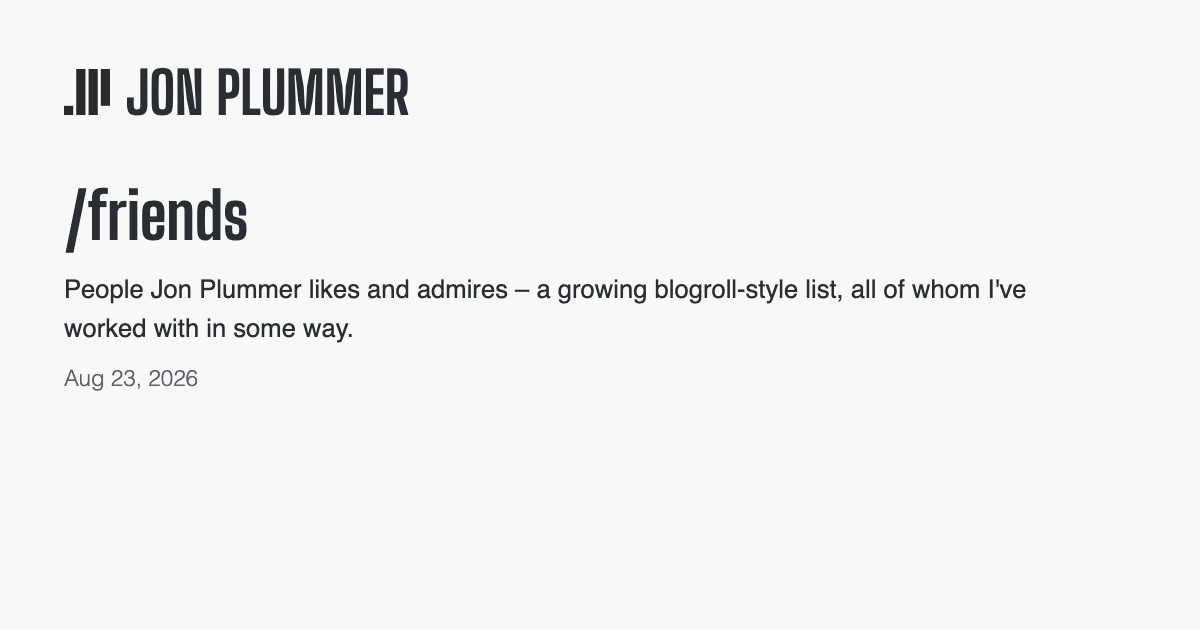
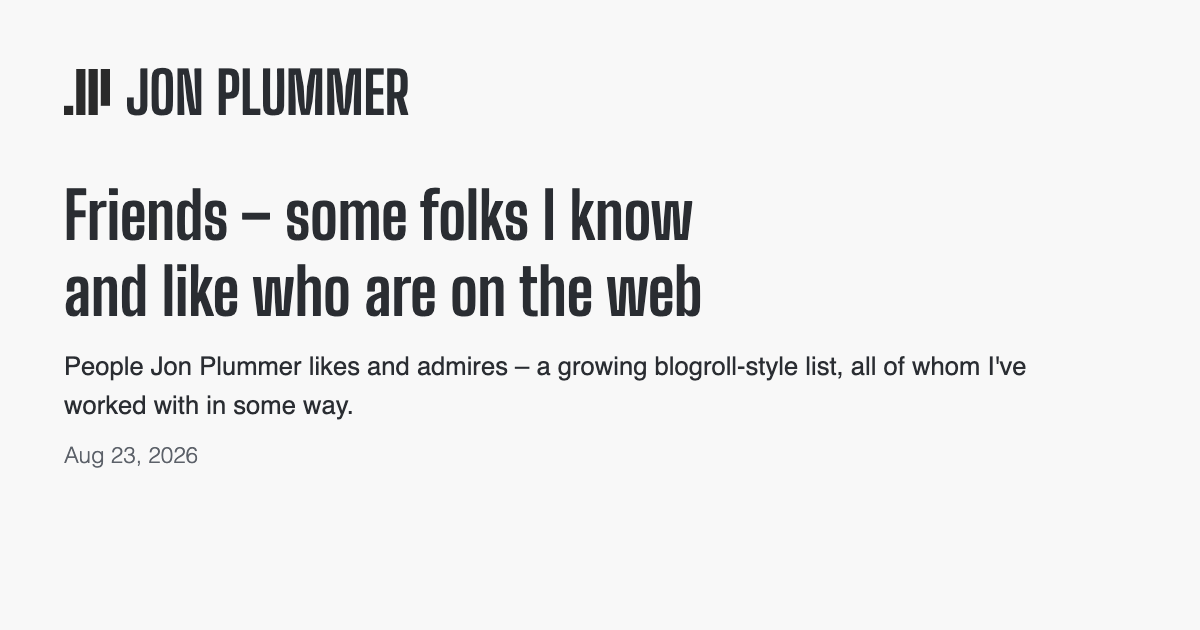
Give the utility pages real titles
The path-style titles were cute but needed a maintained exception list to
survive the SEO test, and the list had already drifted: EXCLUDED_SHORT_TITLES
carried /about, /changelog, /color, /now, /ogimages and /type, but nobody ever
added /colophon or /friends, so those two warned on every run.

Real names now, which also means real <h1>s - base.njk renders title as the
page heading - and a 404 suggester that says "You probably want About Jon
Plummer" rather than "You probably want /about".

The nav keeps its path style. Those labels are hardcoded in nav.njk and
footer_nav.njk, independent of page titles, and a menu of routes is a
different thing from a page's name.

OG cards regenerated with --force. They would not have rebuilt on their own:
these pages pin a literal ogImage path, and the generator skips a literal path
whose file exists before it ever checks whether the source data moved.

Six entries drop out of EXCLUDED_SHORT_TITLES, and the SEO suite goes from
nine warnings to seven. The four that remain there are portfolio titles.

diff --git a/scripts/test/seo-meta.js b/scripts/test/seo-meta.js
@@ -34,14 +34,14 @@ function getChangedMarkdownFiles() {
     .filter(file => fs.existsSync(file));
 }
 
-// Titles to exclude from "too short" validation
+// Titles to exclude from "too short" validation.
+//
+// The six path-style page titles that used to live here - '/about', '/now' and
+// friends - are gone: those pages carry real names now. That list had already
+// drifted, which is part of why the convention went. '/colophon' and '/friends'
+// were never added and warned on every run. Prefer lengthening a title to
+// adding an entry here.
 const EXCLUDED_SHORT_TITLES = [
-  '/about',
-  '/changelog',
-  '/color',
-  '/now',
-  '/ogimages',
-  '/type',
   'Goal Manager identity (2001)',
   'CareLink Pro main interface',
   'Linksys app revitalization',

diff --git a/src/readme.md b/src/readme.md
@@ -1,5 +1,5 @@
 ---
-title: README – About this website's source code
+title: README – about this website's source code
 description: This is the source code for my personal website. It is designed to be a long-term home for my writing and work, reflecting my approach to design, development, and content creation.
 date: 2025-01-27T00:00:00.000Z
 layout: base.njk

diff --git a/src/about.md b/src/about.md
@@ -1,5 +1,5 @@
 ---
-title: /about
+title: About Jon Plummer
 description: Jon Plummer is a UX design leader and mentor with experience at Invoca, Cayuse, Belkin, and Medtronic. Learn about his design leadership philosophy and career.
 date: 2026-09-04T00:00:00.000-07:00
 layout: base.njk

diff --git a/src/changelog.md b/src/changelog.md
@@ -1,5 +1,5 @@
 ---
-title: /changelog
+title: Changelog – what just happened
 description: All notable changes to this project are documented here. The format is based on Keep a Changelog, with chronological ordering (newest first).
 date: 2025-11-15T00:00:00.000Z
 layout: base.njk

diff --git a/src/friends.md b/src/friends.md
@@ -1,5 +1,5 @@
 ---
-title: /friends
+title: Friends – some folks I know and like who are on the web
 description: People Jon Plummer likes and admires – a growing blogroll-style list, all of whom I've worked with in some way.
 date: 2026-08-24T00:00:00.000Z
 layout: base.njk

diff --git a/src/technologies.md b/src/technologies.md
@@ -1,5 +1,5 @@
 ---
-title: /technologies
+title: Technologies
 description: Technologies and dependencies used to develop jonplummer.com. This list is generated by Cursor and includes Eleventy, Node.js, and testing tools.
 date: 2025-11-15T00:00:00.000Z
 layout: base.njk

diff --git a/src/now.md b/src/now.md
@@ -1,5 +1,5 @@
 ---
-title: /now
+title: Now – what I'm up to
 description: What Jon Plummer is up to now – looking for work, family, and a pile of side projects in various states of done. Updated regularly.
 date: 2026-09-04T00:00:00.000Z
 layout: base.njk

diff --git a/src/404.md b/src/404.md
@@ -1,7 +1,7 @@
 ---
 layout: base.njk
 permalink: /404.html
-title: /404
+title: 404 – page not found
 description: Page not found. Recent posts and a way back into Jon Plummer's site on UX design and leadership.
 tags: page
 purpose: 404

diff --git a/src/500.md b/src/500.md
@@ -1,7 +1,7 @@
 ---
 layout: base.njk
 permalink: /500.html
-title: /500
+title: 500 – server error
 description: Server error. Something went wrong on Jon Plummer's end, not yours.
 tags: page
 purpose: 500

diff --git a/src/colophon.md b/src/colophon.md
@@ -1,5 +1,5 @@
 ---
-title: /colophon
+title: Colophon – how it's made
 description: How this site is built, and where I've written about that topic.
 date: 2026-08-10T00:00:00.000Z
 layout: base.njk
